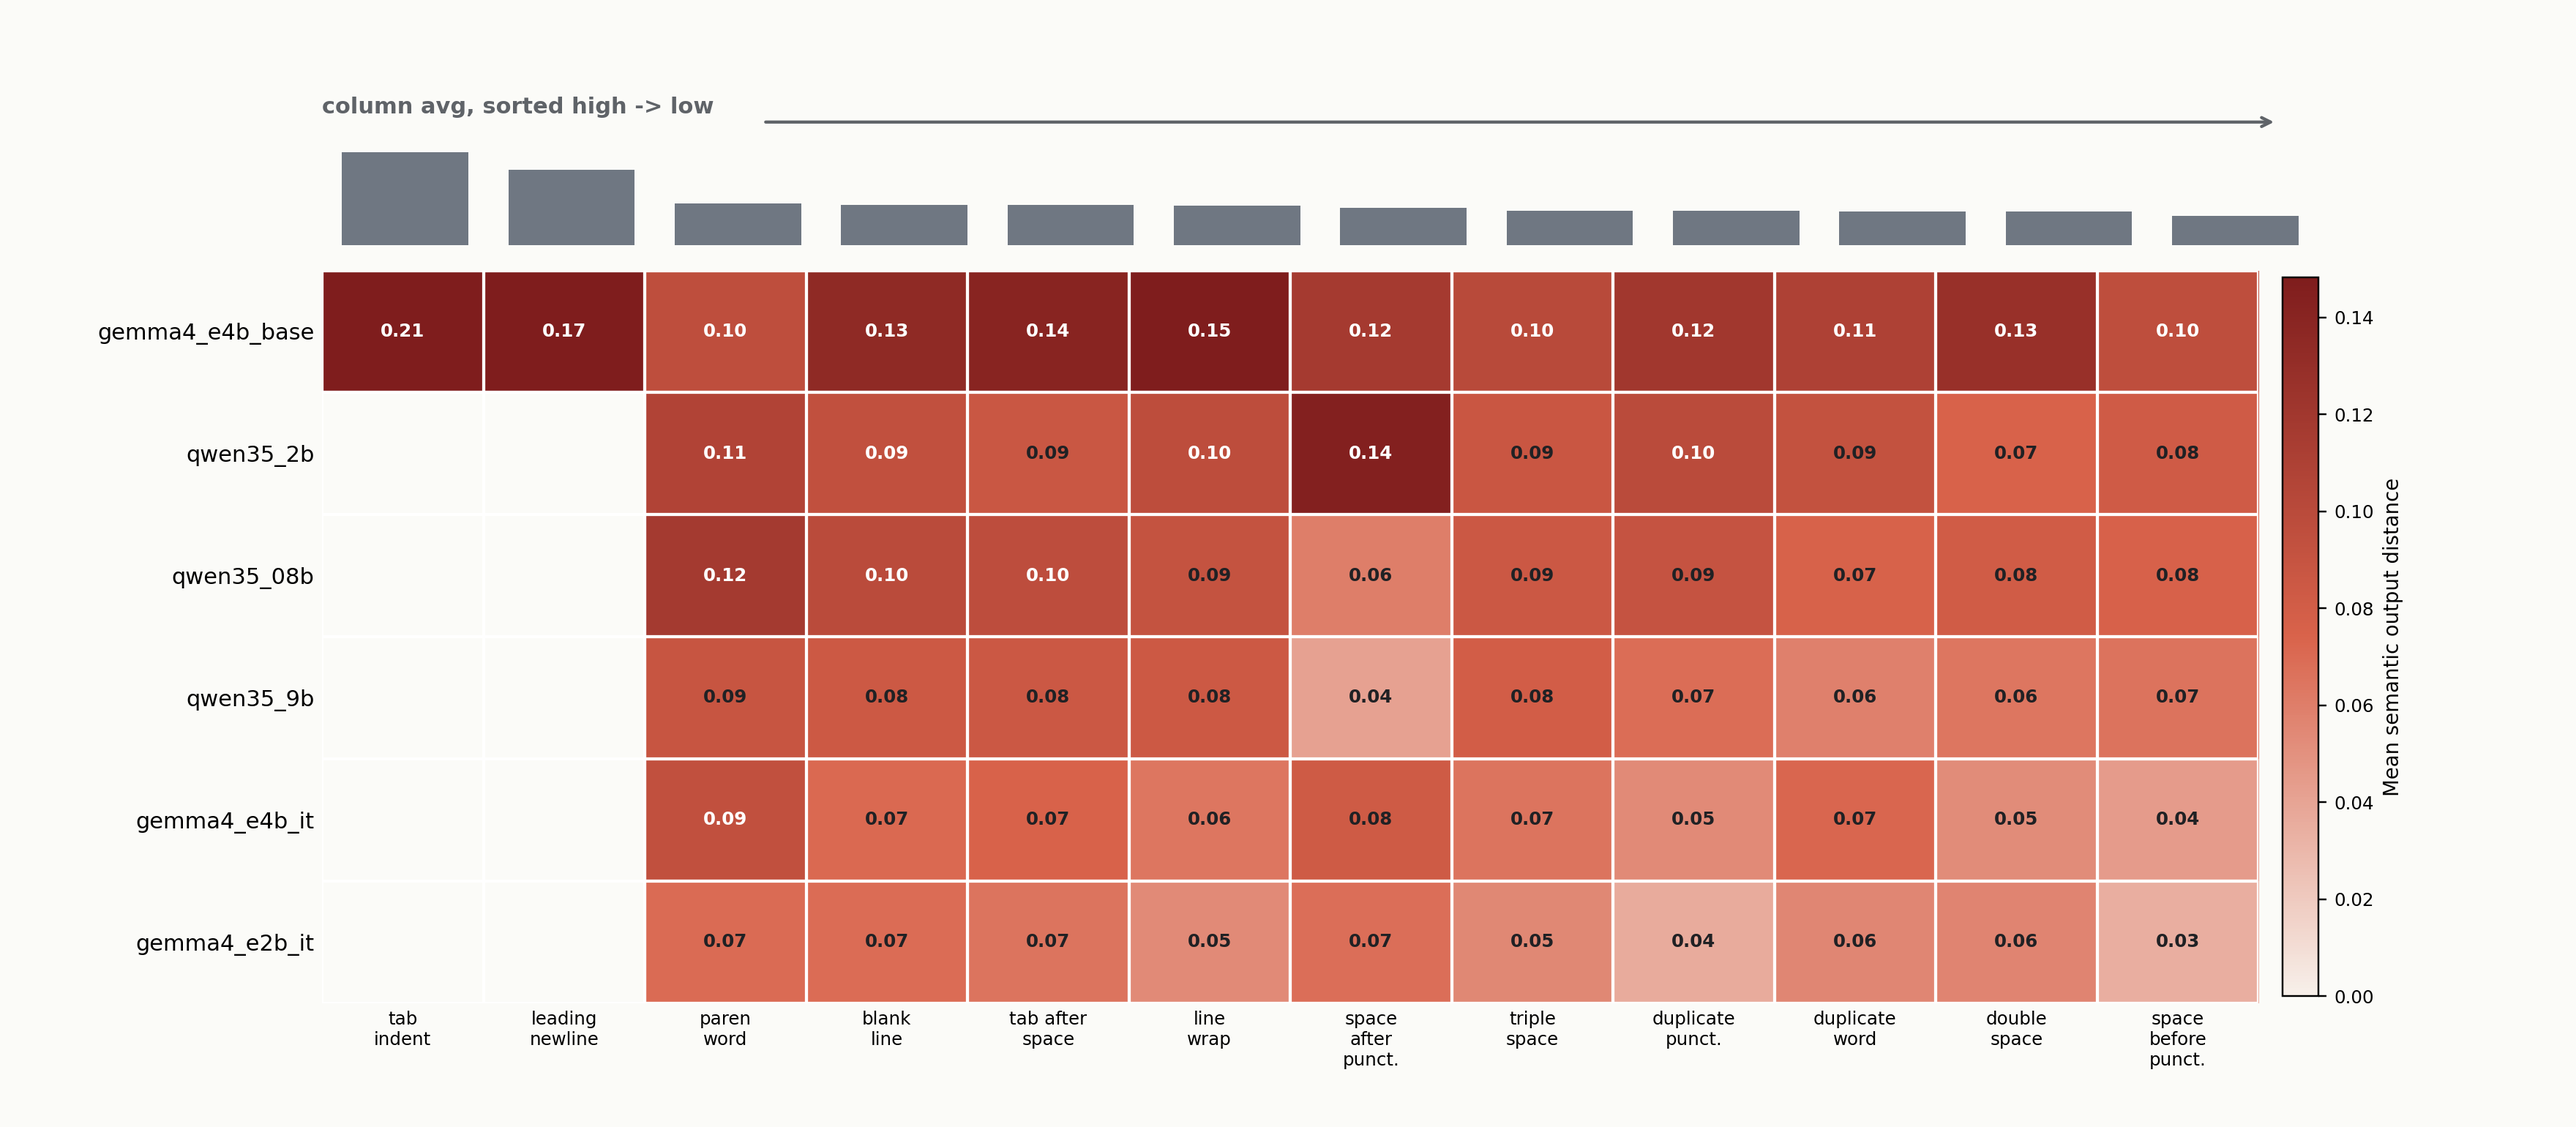
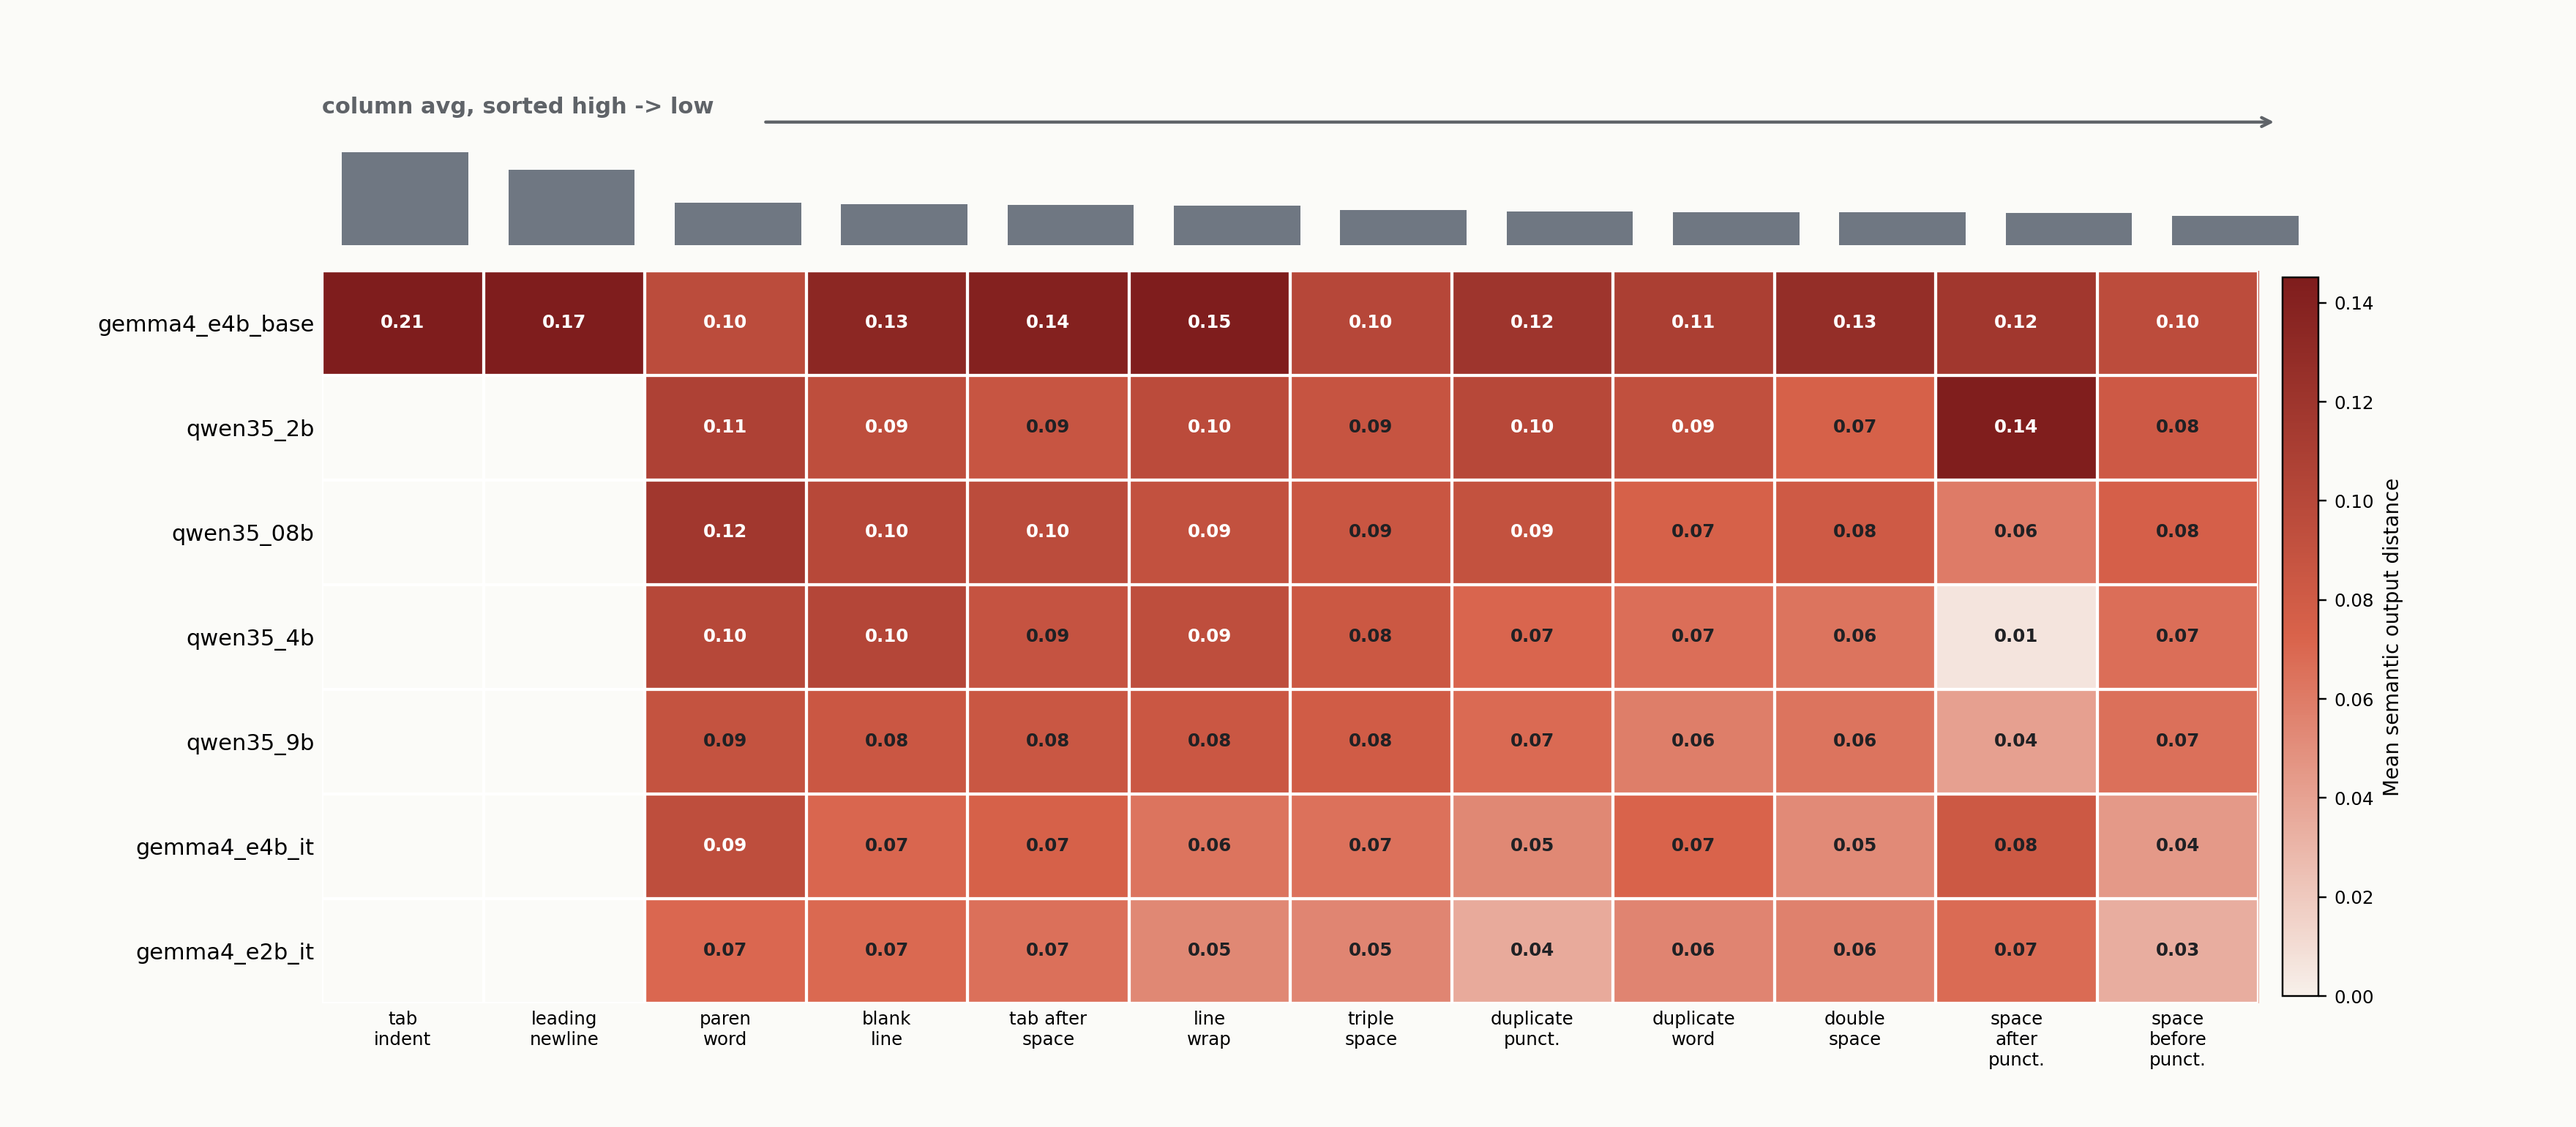
Analyze completed token-certified panel

diff --git a/scripts/analyze_token_micro_panel.py b/scripts/analyze_token_micro_panel.py
@@ -1,0 +1,123 @@
+#!/usr/bin/env python3
+"""Statistical summaries for token-certified micro-perturbation panels."""
+
+from __future__ import annotations
+
+import argparse
+import json
+from pathlib import Path
+
+import numpy as np
+import pandas as pd
+
+
+def load_panel(rank_dir: Path) -> pd.DataFrame:
+    rows = []
+    for summary_path in sorted(rank_dir.glob("*/summary.json")):
+        model = summary_path.parent.name
+        summary = json.loads(summary_path.read_text(encoding="utf-8"))
+        run_dir = Path(summary["run_dir"])
+        semantic_path = run_dir / "summary_with_semantic.csv"
+        if not semantic_path.exists():
+            continue
+        df = pd.read_csv(semantic_path)
+        df["panel_model"] = model
+        rows.append(df)
+    if not rows:
+        raise SystemExit(f"No semantic summaries found under {rank_dir}")
+    return pd.concat(rows, ignore_index=True)
+
+
+def bootstrap_mean(values: np.ndarray, iterations: int, rng: np.random.Generator) -> tuple[float, float, float]:
+    if values.size == 0:
+        return (float("nan"), float("nan"), float("nan"))
+    means = np.empty(iterations)
+    for i in range(iterations):
+        means[i] = rng.choice(values, size=values.size, replace=True).mean()
+    return (float(values.mean()), float(np.quantile(means, 0.025)), float(np.quantile(means, 0.975)))
+
+
+def paired_permutation(left: pd.DataFrame, right: pd.DataFrame, iterations: int, rng: np.random.Generator) -> dict:
+    cols = ["pair_id", "semantic_cosine_distance"]
+    merged = left[cols].merge(right[cols], on="pair_id", suffixes=("_left", "_right"))
+    if merged.empty:
+        return {"n_pairs": 0, "mean_difference_left_minus_right": float("nan"), "p_two_sided": float("nan")}
+    diffs = (
+        merged["semantic_cosine_distance_left"].to_numpy()
+        - merged["semantic_cosine_distance_right"].to_numpy()
+    )
+    observed = float(diffs.mean())
+    null = np.empty(iterations)
+    for i in range(iterations):
+        signs = rng.choice([-1.0, 1.0], size=diffs.size)
+        null[i] = (diffs * signs).mean()
+    p = float((np.abs(null) >= abs(observed)).mean())
+    return {"n_pairs": int(diffs.size), "mean_difference_left_minus_right": observed, "p_two_sided": p}
+
+
+def main() -> None:
+    parser = argparse.ArgumentParser(description=__doc__)
+    parser.add_argument("--rank-dir", type=Path, default=Path("runs/rankings/token_micro_v3"))
+    parser.add_argument("--out-dir", type=Path, default=None)
+    parser.add_argument("--iterations", type=int, default=10000)
+    parser.add_argument("--seed", type=int, default=1234)
+    args = parser.parse_args()
+    out_dir = args.out_dir or args.rank_dir / "stats"
+    out_dir.mkdir(parents=True, exist_ok=True)
+    rng = np.random.default_rng(args.seed)
+
+    panel = load_panel(args.rank_dir)
+    panel.to_csv(out_dir / "panel_rows.csv", index=False)
+    non_control = panel[panel["category"] != "micro_control_identical"].copy()
+
+    model_rows = []
+    for model, group in non_control.groupby("panel_model", sort=False):
+        values = group["semantic_cosine_distance"].dropna().to_numpy()
+        mean, lo, hi = bootstrap_mean(values, args.iterations, rng)
+        model_rows.append(
+            {
+                "model": model,
+                "n_effective": int(len(values)),
+                "semantic_mean": mean,
+                "ci95_low": lo,
+                "ci95_high": hi,
+                "semantic_p90": float(np.quantile(values, 0.90)),
+                "semantic_max": float(np.max(values)),
+            }
+        )
+    model_summary = pd.DataFrame(model_rows).sort_values("semantic_mean", ascending=False)
+    model_summary.to_csv(out_dir / "model_bootstrap_ci.csv", index=False)
+
+    category_rows = []
+    for (model, category), group in non_control.groupby(["panel_model", "category"], sort=False):
+        values = group["semantic_cosine_distance"].dropna().to_numpy()
+        mean, lo, hi = bootstrap_mean(values, args.iterations, rng)
+        category_rows.append(
+            {
+                "model": model,
+                "category": category,
+                "n": int(len(values)),
+                "semantic_mean": mean,
+                "ci95_low": lo,
+                "ci95_high": hi,
+            }
+        )
+    pd.DataFrame(category_rows).sort_values(["model", "semantic_mean"], ascending=[True, False]).to_csv(
+        out_dir / "category_bootstrap_ci.csv", index=False
+    )
+
+    paired_rows = []
+    models = sorted(non_control["panel_model"].unique())
+    by_model = {model: non_control[non_control["panel_model"] == model] for model in models}
+    for i, left_name in enumerate(models):
+        for right_name in models[i + 1 :]:
+            result = paired_permutation(by_model[left_name], by_model[right_name], args.iterations, rng)
+            paired_rows.append({"left": left_name, "right": right_name, **result})
+    pd.DataFrame(paired_rows).sort_values("p_two_sided").to_csv(out_dir / "paired_permutation_tests.csv", index=False)
+
+    print(model_summary.to_string(index=False, float_format=lambda x: f"{x:.5f}"))
+    print(f"Wrote token micro panel stats to {out_dir}")
+
+
+if __name__ == "__main__":
+    main()

diff --git a/docs/task_list.md b/docs/task_list.md
@@ -216,17 +216,18 @@ Token-certified v3 reinforcement wave:
   `token-cert-v3`:
   - `scripts/sagemaker_queue_supervisor.py --queue configs/sagemaker_queue_token_certified_v3.json --passes 0 --sleep-s 600`
   - `scripts/process_token_micro_queue.py --queue configs/sagemaker_queue_token_certified_v3.json --rank-dir runs/rankings/token_micro_v3 --passes 0 --sleep-s 900`
-- Live status at 2026-04-30 13:45 -0300:
-  - Processed in `runs/rankings/token_micro_v3/`: Qwen3.5 0.8B, 2B, 9B
+- Live status at 2026-04-30 15:21 -0300:
+  - Processed in `runs/rankings/token_micro_v3/`: Qwen3.5 0.8B, 2B, 4B, 9B
     thinking-off; Gemma4 E2B/E4B instruct; Gemma4 E4B base.
-  - Still training: Qwen3.5 4B thinking-off.
   - Completed but incomplete for this analysis: Gemma4 E2B base timed out at
     six hours and produced partial raw rows but no `summary.csv`; do not use it
     in v3 claims without rerunning or explicitly labeling it partial.
   - Current v3 processed means, all with 500 effective token perturbations:
     Gemma4 E4B base `0.1286`, Qwen3.5 0.8B `0.0930`, Qwen3.5 2B `0.0912`,
-    Qwen3.5 9B `0.0786`, Gemma4 E4B instruct `0.0684`, Gemma4 E2B instruct
-    `0.0591`.
+    Qwen3.5 4B `0.0855`, Qwen3.5 9B `0.0786`, Gemma4 E4B instruct `0.0684`,
+    Gemma4 E2B instruct `0.0591`.
+  - Added `scripts/analyze_token_micro_panel.py`; current bootstrap output is
+    under `runs/rankings/token_micro_v3/stats/`.
 
 Paper-grade follow-up wave launched 2026-04-30:
 
@@ -241,10 +242,10 @@ Paper-grade follow-up wave launched 2026-04-30:
 - Launched immediately:
   - Qwen3.5 0.8B thinking-off logit probe on QA `g5.2xlarge`
   - Qwen3.5 2B thinking-off logit probe on ML prod `g5.2xlarge`
+  - Qwen3.5 4B thinking-off logit probe on marketing prod `g5.2xlarge`
   - Qwen3.5 9B thinking-off logit probe on preprod `g6e.2xlarge`
   - Gemma4 E2B instruct logit probe on preprod `g6e.2xlarge`
 - Queued behind full lanes:
-  - Qwen3.5 4B thinking-off logit probe
   - Gemma4 E2B base, E4B instruct, E4B base logit probes
 - Next step when lanes free: rerun
   `uv run python scripts/sagemaker_queue_supervisor.py --queue configs/sagemaker_queue_logit_token_cert_v1.json --passes 1`.

diff --git a/docs/results_digest.md b/docs/results_digest.md
@@ -109,22 +109,24 @@ The earlier micro sweep found that many raw character edits never survived
 tokenization or chat-template formatting as real prompt-token deltas. The v3
 reinforcement wave now uses model-specific certified prompt files: 25 identical
 controls plus 500 effective prompt-token perturbations per selected model. As
-of 2026-04-30 13:45 -0300, processed v3 means are:
+of 2026-04-30 15:21 -0300, processed v3 means are:
 
 | Model | Effective pairs | Mean 512-token semantic distance | P90 |
 | --- | ---: | ---: | ---: |
 | Gemma4 E4B base | 500 | 0.129 | 0.303 |
 | Qwen3.5 0.8B thinking-off | 500 | 0.093 | 0.165 |
 | Qwen3.5 2B thinking-off | 500 | 0.091 | 0.165 |
+| Qwen3.5 4B thinking-off | 500 | 0.086 | 0.160 |
 | Qwen3.5 9B thinking-off | 500 | 0.079 | 0.141 |
 | Gemma4 E4B instruct | 500 | 0.068 | 0.165 |
 | Gemma4 E2B instruct | 500 | 0.059 | 0.112 |
 
-This is not yet the final v3 panel: Qwen3.5 4B thinking-off is still running,
-and Gemma4 E2B base timed out after producing partial raw rows but no
+This is still not the final v3 panel: Gemma4 E2B base timed out after producing partial raw rows but no
 `summary.csv`. The safe claim is already useful: token-aware filtering is not a
 pedantic detail; it changes which examples are admissible evidence, and the
-base-vs-instruct Gemma split remains a high-signal recipe contrast.
+base-vs-instruct Gemma split remains a high-signal recipe contrast. The
+token-certified Qwen ladder is ordered 0.8B/2B/4B/9B by decreasing mean
+sensitivity, but 0.8B and 2B are not cleanly separated by paired permutation.
 
 The next important contrast is training era/post-training recipe, but it should
 not be reduced to either "modern equals stable" or "older equals stable." A
